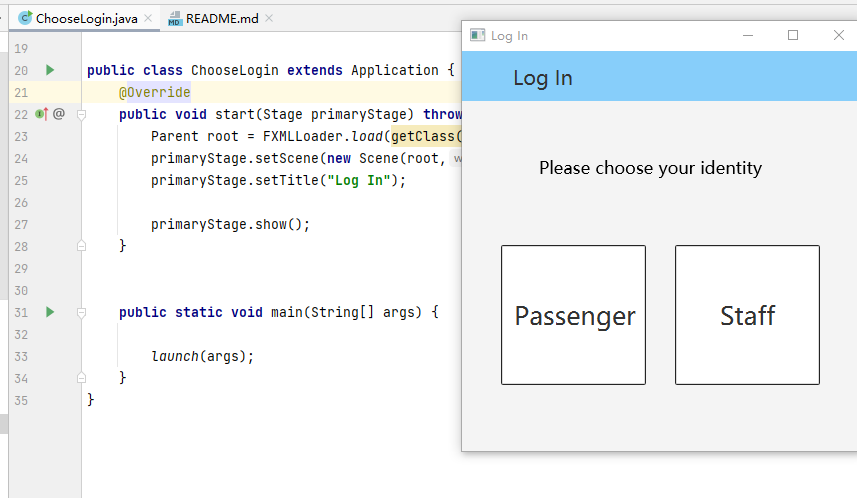
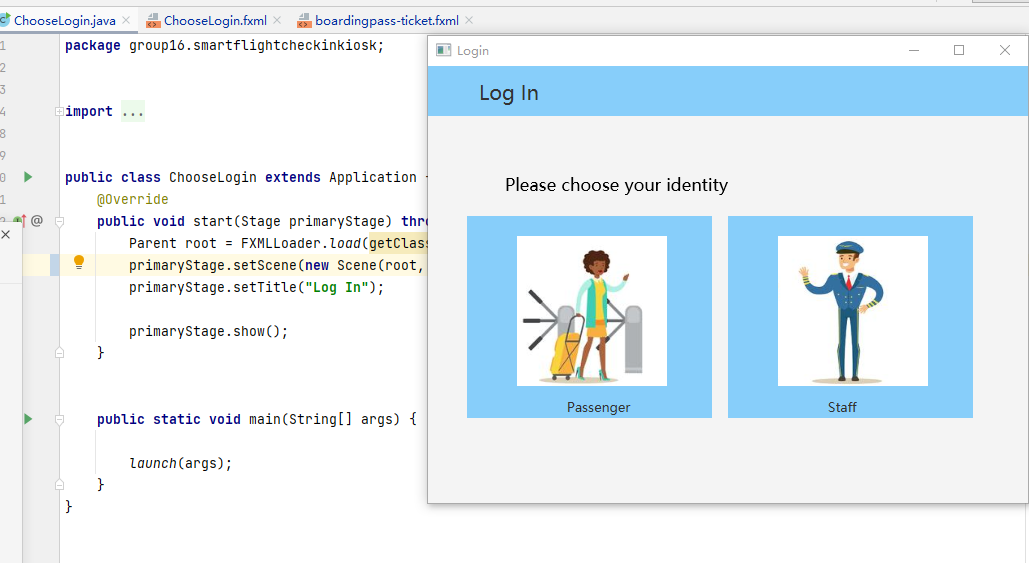
1.budget chooselogin boardingpass-tag&ticket美化 2.readme终稿 3.

diff --git a/src/main/java/group16/smartflightcheckinkiosk/Controller/BoardingpassController.java b/src/main/java/group16/smartflightcheckinkiosk/Controller/BoardingpassController.java
@@ -44,7 +44,7 @@ public class BoardingpassController {
     @FXML
     void onOKClick() throws Exception{
         Jumpto jumpto1 = new Jumpto();
-        jumpto1.set("boardingpass-boardingpass.fxml", "Booked Flight");
+        jumpto1.set("boardingpass-boardingpass.fxml", "Boarding pass");
         Stage stage1 = new Stage();
         jumpto1.start(stage1);
 
@@ -80,14 +80,14 @@ public class BoardingpassController {
 
         for(int i=0;i<total_tag_luggage;i++) {
             Jumpto jumpto2 = new Jumpto();
-            jumpto2.set("boardingpass-tag.fxml", "Booked Flight");
+            jumpto2.set("boardingpass-tag.fxml", "Carry-on Luggage");
             Stage stage2 = new Stage();
             jumpto2.start(stage2);
             tag_index++;
         }
         for(int j=0;j<total_ticket_luggage;j++) {
             Jumpto jumpto3 = new Jumpto();
-            jumpto3.set("boardingpass-ticket.fxml", "Booked Flight");
+            jumpto3.set("boardingpass-ticket.fxml", "Check-in Luggage");
             Stage stage3 = new Stage();
             jumpto3.start(stage3);
             ticket_index++;

diff --git a/src/main/java/group16/smartflightcheckinkiosk/Controller/BoardingpassCheckController.java b/src/main/java/group16/smartflightcheckinkiosk/Controller/BoardingpassCheckController.java
@@ -41,7 +41,7 @@ public class BoardingpassCheckController implements Initializable {
 
         System.out.println("next button pressed");
         Jumpto jumpto = new Jumpto();
-        jumpto.set("boardingpass.fxml", "boaringpass-2");
+        jumpto.set("boardingpass.fxml", "boaringpass-notification");
         Stage stage = new Stage();
         jumpto.start(stage);
         Stage stage_old = (Stage)next.getScene().getWindow();

diff --git a/src/main/java/group16/smartflightcheckinkiosk/ChooseLogin.java b/src/main/java/group16/smartflightcheckinkiosk/ChooseLogin.java
@@ -21,7 +21,7 @@ public class ChooseLogin extends Application {
     @Override
     public void start(Stage primaryStage) throws Exception {
         Parent root = FXMLLoader.load(getClass().getResource("ChooseLogin.fxml"));
-        primaryStage.setScene(new Scene(root,400,400));
+        primaryStage.setScene(new Scene(root,600,400));
         primaryStage.setTitle("Log In");
 
         primaryStage.show();

diff --git a/src/main/java/group16/smartflightcheckinkiosk/Controller/MainMenuController.java b/src/main/java/group16/smartflightcheckinkiosk/Controller/MainMenuController.java
@@ -61,7 +61,7 @@ public class MainMenuController  implements Initializable{
     @FXML
     void gotoBoardingpassCheck(ActionEvent event) throws Exception {
         Jumpto jumpto = new Jumpto();
-        jumpto.set("boardingpass-check.fxml", "boardingpass1");
+        jumpto.set("boardingpass-check.fxml", "boardingpass-check");
         Stage stage = new Stage();
         jumpto.start(stage);
     }

diff --git a/README.md b/README.md
@@ -10,16 +10,22 @@ Chooselogin.java is the entry point of the entire project. By running this class
 
 Click passenger and then enter the passenger's login page. On this page, you can choose three ways to check-in
 
+![img.png](ReadmeImg/login.png))
+
 
 ### 2.1Log in
 
 The first method is to click the first button" Booking Number" and you can enter the check-in of different people through the book number in the following table:
+
+![img.png](ReadmeImg/login-1.png)
 
 | 123456 | JACK |
 | ------ | ---- |
 | 123457 | ROSE |
 | 123458 | TOM  |
 | 123459 | MIKE |
+
+![img.png](ReadmeImg/login-2.png)
 
 The second method is to click the second button "Surname&ID number" and enter the surname and id number. You can enter the check-in of different people through the surname and ID number in the following table:
 
@@ -30,6 +36,8 @@ The second method is to click the second button "Surname&ID number" and enter th
 | 03        | TOM     |
 | 04        | MIKE    |
 
+![img.png](ReadmeImg/login-3.png)
+
 The third method is to click the third button and scan the id-card. We use the "login.csv" in the project as the id-card information entered by the passenger, so you can click ok to directly enter the subsequent interface, and click "back "at the bottom You can go back to the previous ChooseLogin interface.
 
 
@@ -38,9 +46,17 @@ The third method is to click the third button and scan the id-card. We use the "
 
 After logging in,  there is the main menu page, where you can see the booking information. The subsequent operations can be performed in the upper menu bar. 
 
+![img.png](ReadmeImg/mainmenu.png)
+
 First, you can directly return to the "ChooseLogin" page from Login-Quit. The second tab is "Choose" where passengers can choose meals and seats at Meal and Seat. The selected item button will turn blue.
 
+![img.png](ReadmeImg/mainmenu-meal.png)
+
+![img.png](ReadmeImg/mainmenu-seat.png)
+
 The selected meal and seat and the amount to be paid can be seen in the third tab "Budget", enter the credit card number, click "ok" to pay, if the number is wrong, it will display "sorry, your car number is not correct" , if the balance is insufficient, it will display "sorry, your balance is not enough", if the payment is successful, it will display "successfully paid!O(∩_∩)O", and the text on the "ok" button will be grayed out and cannot be clicked.
+
+![img.png](ReadmeImg/budget.png)
 
  The table below shows passengers and their account numbers and balances
 
@@ -51,15 +67,24 @@ The selected meal and seat and the amount to be paid can be seen in the third ta
 | TOM     | 888           | 200.0   |
 | MIKE    | 999           | 100.0   |
 
-
+_(If you want to test this function, you can enter the wrong number by entering the wrong number, or enter the correct number but select meals and seats that are out of balance)_
 
 ### 2.3 Boarding pass
 
-The fourth tab is  "boarding" which is the last step of the passenger's "check in" (note that the ticket and other information can be printed out normally only after the extra charge been successfully paid)
+The fourth tab is the last step of the passenger check-in boarding pass. First enter the interface called boardingpass-check, which will display the boarding information including the passenger's selected seat and meal information.
 
-First, the boarding page will display the boarding information including the seat selected by the passenger and the meal information (if no seat is selected, "please choose your seat first" will be displayed in the "Seat" line). Click the "ok" button on this page to enter the next  page (if there is an unfinished payment or seat selection, you are not able to go to the next page)
+![img.png](ReadmeImg/boardingpass-check.png)
+
+Note that you can click Next and print out the ticket and other information normally only after you have successfully paid the extra cost and selected your seat successfully.
+
+ *If you want to test this error checking function:*
+
+* *The situations where you cannot proceed to the next step includes: 1. Entering this interface without selecting a seat 2. When there are additional expenses that have not been paid*
+* T*he situations where you can proceed to the next step includes: 1. When choosing a free seat such as A4 without ordering or paying for food 2. After successful payment of all additional expenses*
 
 The second page is a notification page, notificating passengers that three items would be printed out:the boarding pass, the ticket corresponding to each check-in baggage, and the tag corresponding to each carry-on baggage
+
+![img.png](ReadmeImg/boardingpass-final.png)
 
 Click "ok" to print out the above items. There is a boardingpass window, each carry-on baggage corresponds to a boardingpass-tag window (with the tag name starting with CO), and each check baggage corresponds to a boarding-ticket window (with counter and tag name starting with CI) 
 
